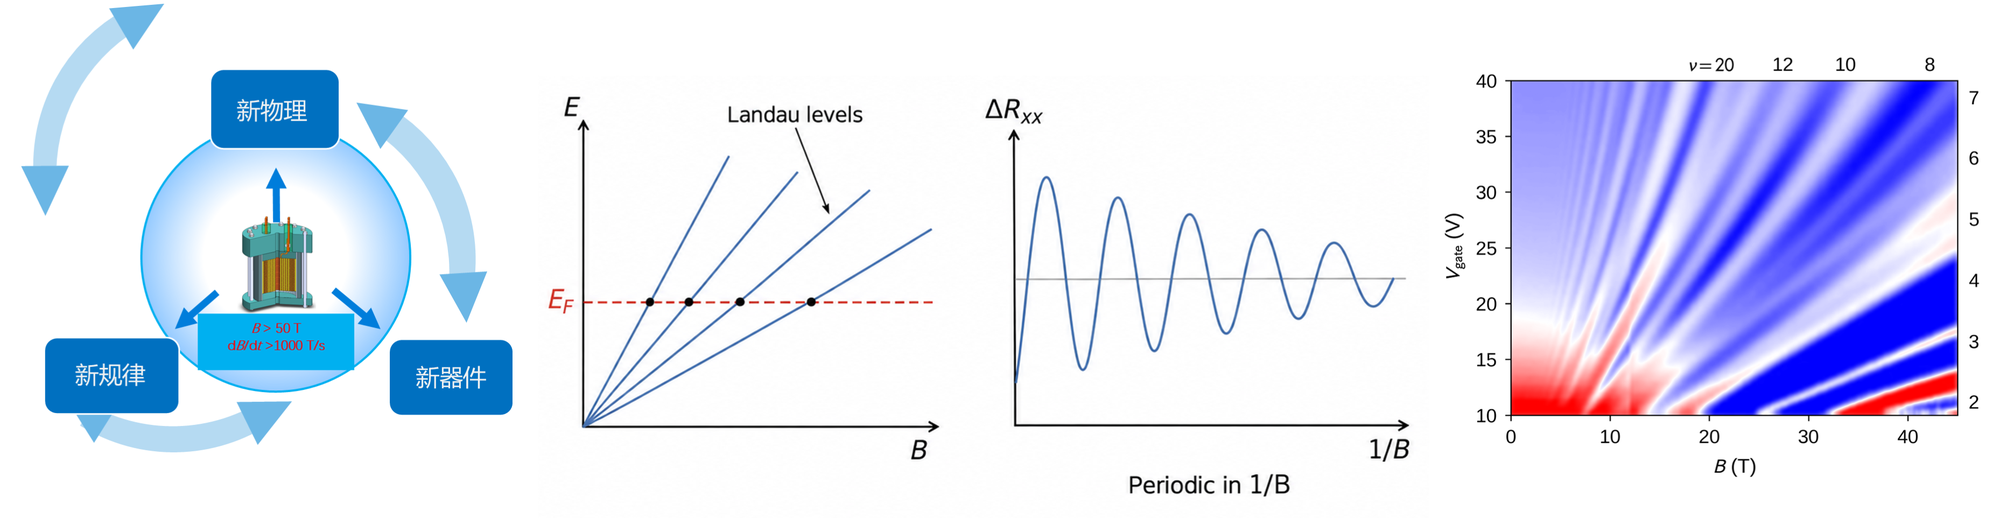
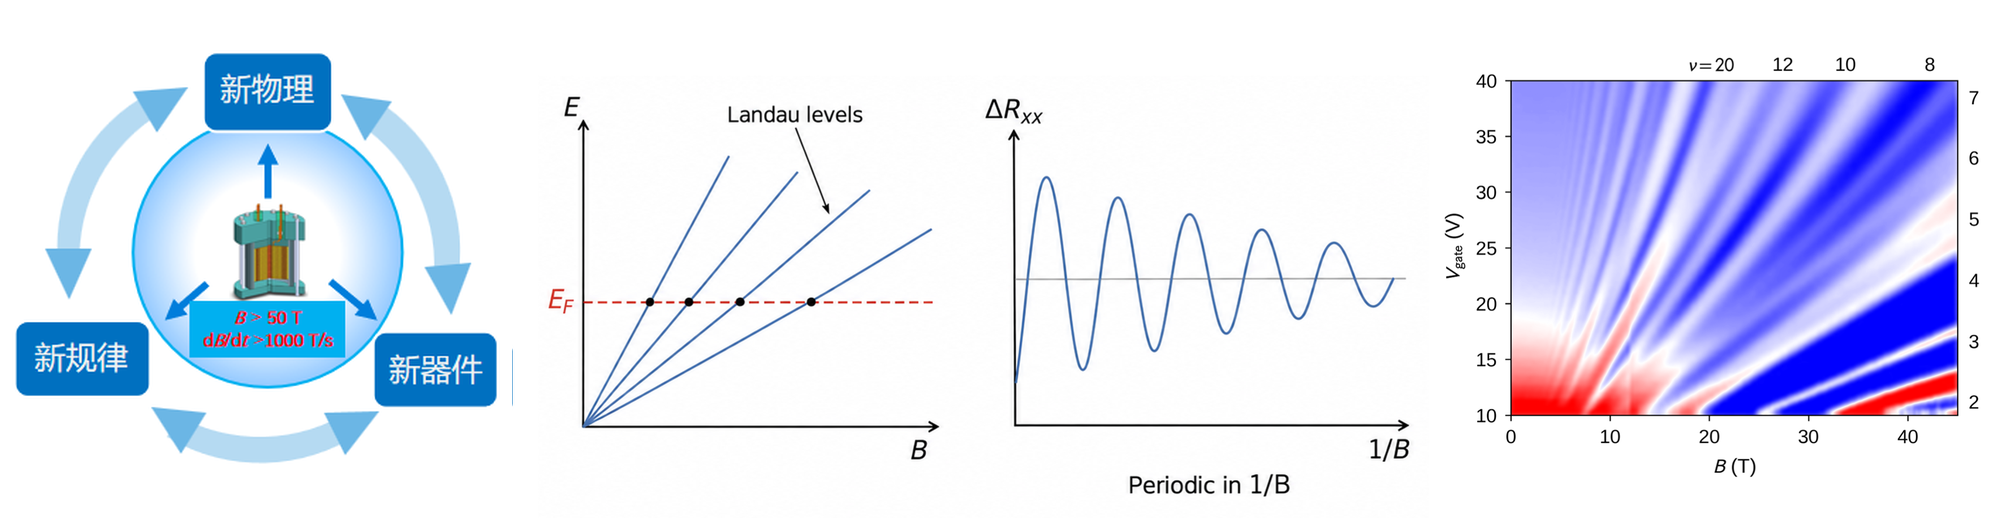
News: EDTM 2025 Hong Kong; fix quantum diagram art

Changed region(s): [[0.0, 0.0, 0.279, 0.8958]]

diff --git a/news.html b/news.html
@@ -197,7 +197,20 @@
       </div>
     </article>
 
-    <article class="entry">
+        <article class="entry">
+      <div class="entry-date"><span class="m">Mar</span><span class="y">2025</span></div>
+      <div class="entry-body">
+        <h2>Jiaming Zhao at IEEE EDTM 2025, Hong Kong</h2>
+        <figure>
+          <img class="zoom" src="assets/news/2025-edtm-hongkong.jpg" alt="Jiaming Zhao in front of the EDTM 2025 backdrop in Hong Kong." width="1200" height="900" loading="lazy" decoding="async">
+          <figcaption>Jiaming Zhao at the 9th IEEE Electron Devices Technology and Manufacturing Conference, Hong Kong, 9&ndash;12 March 2025.</figcaption>
+        </figure>
+        <p>Jiaming Zhao attended the 9th IEEE Electron Devices Technology and Manufacturing Conference (EDTM 2025) in Hong Kong, held 9&ndash;12 March under the theme "Shaping the future with innovations in devices and manufacturing".</p>
+        <div class="tags"><span>Conference</span><span>EDTM</span></div>
+      </div>
+    </article>
+
+<article class="entry">
       <div class="entry-date"><span class="m">Sep</span><span class="y">2024</span></div>
       <div class="entry-body">
         <h2>Teachers' Day</h2>
